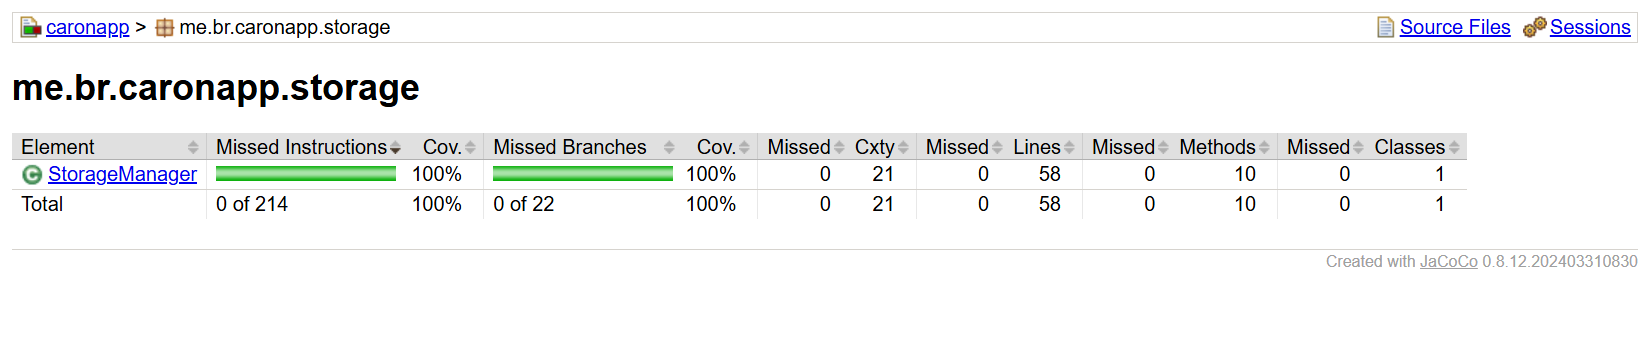
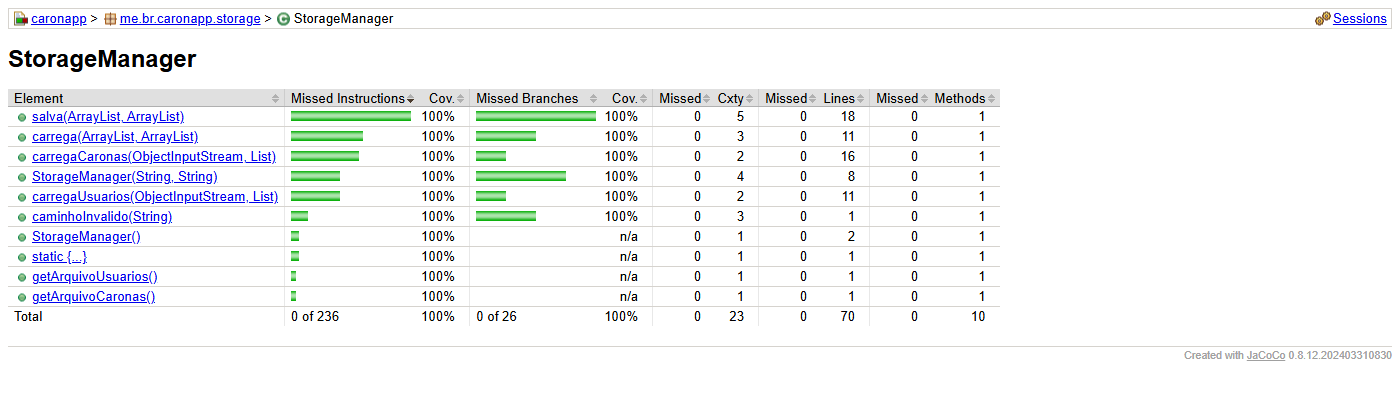
refactor: torna explícito o fim dos laços de leitura em StorageManager

diff --git a/src/me/br/caronapp/storage/StorageManager.java b/src/me/br/caronapp/storage/StorageManager.java
@@ -99,12 +99,16 @@ public class StorageManager implements Storable{
 
 	private static void carregaUsuarios(ObjectInputStream entrada, List<Usuario> listaUsuarios) throws IOException {
 		try {
-			while (true) {
-				listaUsuarios.add((Usuario) entrada.readObject());
+			boolean fimDoArquivo = false;
+			while (!fimDoArquivo) {
+				try {
+					listaUsuarios.add((Usuario) entrada.readObject());
+				} catch (EOFException e) {
+					// EOFException e o fim normal do arquivo: todos os usuarios ja foram lidos.
+					LOGGER.log(Level.FINE, "Fim do arquivo de usuarios", e);
+					fimDoArquivo = true;
+				}
 			}
-		} catch (EOFException e) {
-			// EOFException e o fim normal do arquivo: todos os usuarios ja foram lidos.
-			LOGGER.log(Level.FINE, "Fim do arquivo de usuarios", e);
 		} catch (ClassNotFoundException e) {
 			LOGGER.log(Level.SEVERE, "Classe nao encontrada ao ler usuarios: {0}", e.getMessage());
 		}
@@ -113,12 +117,22 @@ public class StorageManager implements Storable{
 	private static void carregaCaronas(ObjectInputStream entrada, List<Carona> listaCaronas) throws IOException {
 		try {
 			Carona.setSerial(entrada.readInt());
-			while (true) {
-				listaCaronas.add((Carona) entrada.readObject());
-			}
 		} catch (EOFException e) {
-			// EOFException e o fim normal do arquivo: todas as caronas ja foram lidas.
-			LOGGER.log(Level.FINE, "Fim do arquivo de caronas", e);
+			// Arquivo sem o serial (vazio): nao ha caronas para ler.
+			LOGGER.log(Level.FINE, "Arquivo de caronas sem serial", e);
+			return;
+		}
+		try {
+			boolean fimDoArquivo = false;
+			while (!fimDoArquivo) {
+				try {
+					listaCaronas.add((Carona) entrada.readObject());
+				} catch (EOFException e) {
+					// EOFException e o fim normal do arquivo: todas as caronas ja foram lidas.
+					LOGGER.log(Level.FINE, "Fim do arquivo de caronas", e);
+					fimDoArquivo = true;
+				}
+			}
 		} catch (ClassNotFoundException e) {
 			LOGGER.log(Level.SEVERE, "Classe nao encontrada ao ler caronas: {0}", e.getMessage());
 		}
